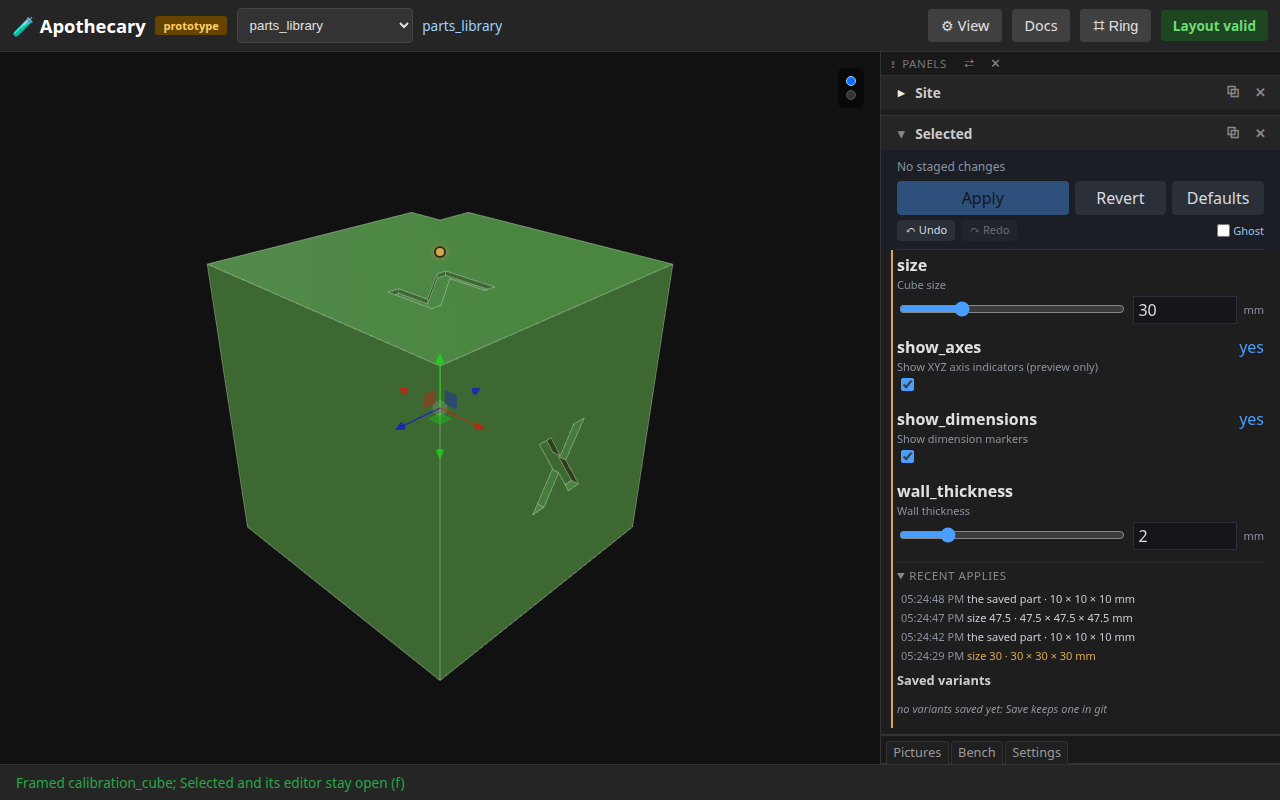
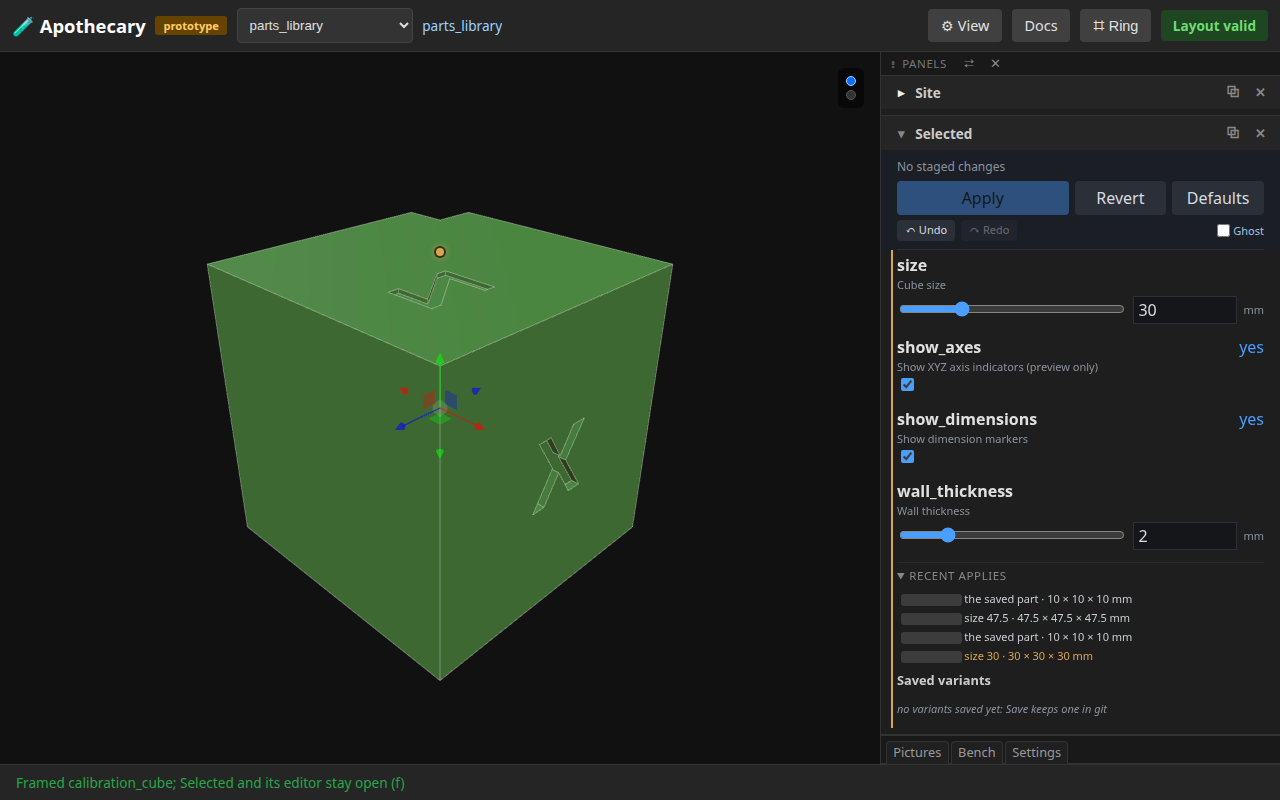
Walkthrough page 14's Recent applies picture blanks the times of day, so it changes only when the page does
Step 11's picture showed Recent applies with each apply's time of day,
which no blank covered, so every run redrew it (some 600 pixels, over the
recorder's threshold) and CI's picture-drift check would warn on every
run. The step blanks the moments in #part-history-list, as page 16 blanks
its saved variants' times; two runs now take the same picture. 14-04 is
retaken too: its only changes from the committed picture are the hint bar
and the tab strip, now that this checkout draws the gridfinity part from
its STL, as the committed one did. The page's words are unchanged and
identical over both runs.

Tools: Claude Code, under review; the design review's lead.

Changed region(s): [[0.6875, 0.7188, 0.875, 0.8438]]

diff --git a/tests/e2e/test_part_loop.py b/tests/e2e/test_part_loop.py
@@ -34,6 +34,7 @@ import stat
 import sys
 
 import pytest
+from doc_capture import moments
 from playwright.sync_api import Page, expect
 from viewer_ready import (
     MARKED_LINE_FIRST,
@@ -907,6 +908,7 @@ def test_designing_a_part_twice_round(
             "the cache of variants, nothing rendered, its text and its numbers what is "
             "drawn; f frames it.",
             shown=again,
+            blank=moments("#part-history-list"),
         ),
     )
 
